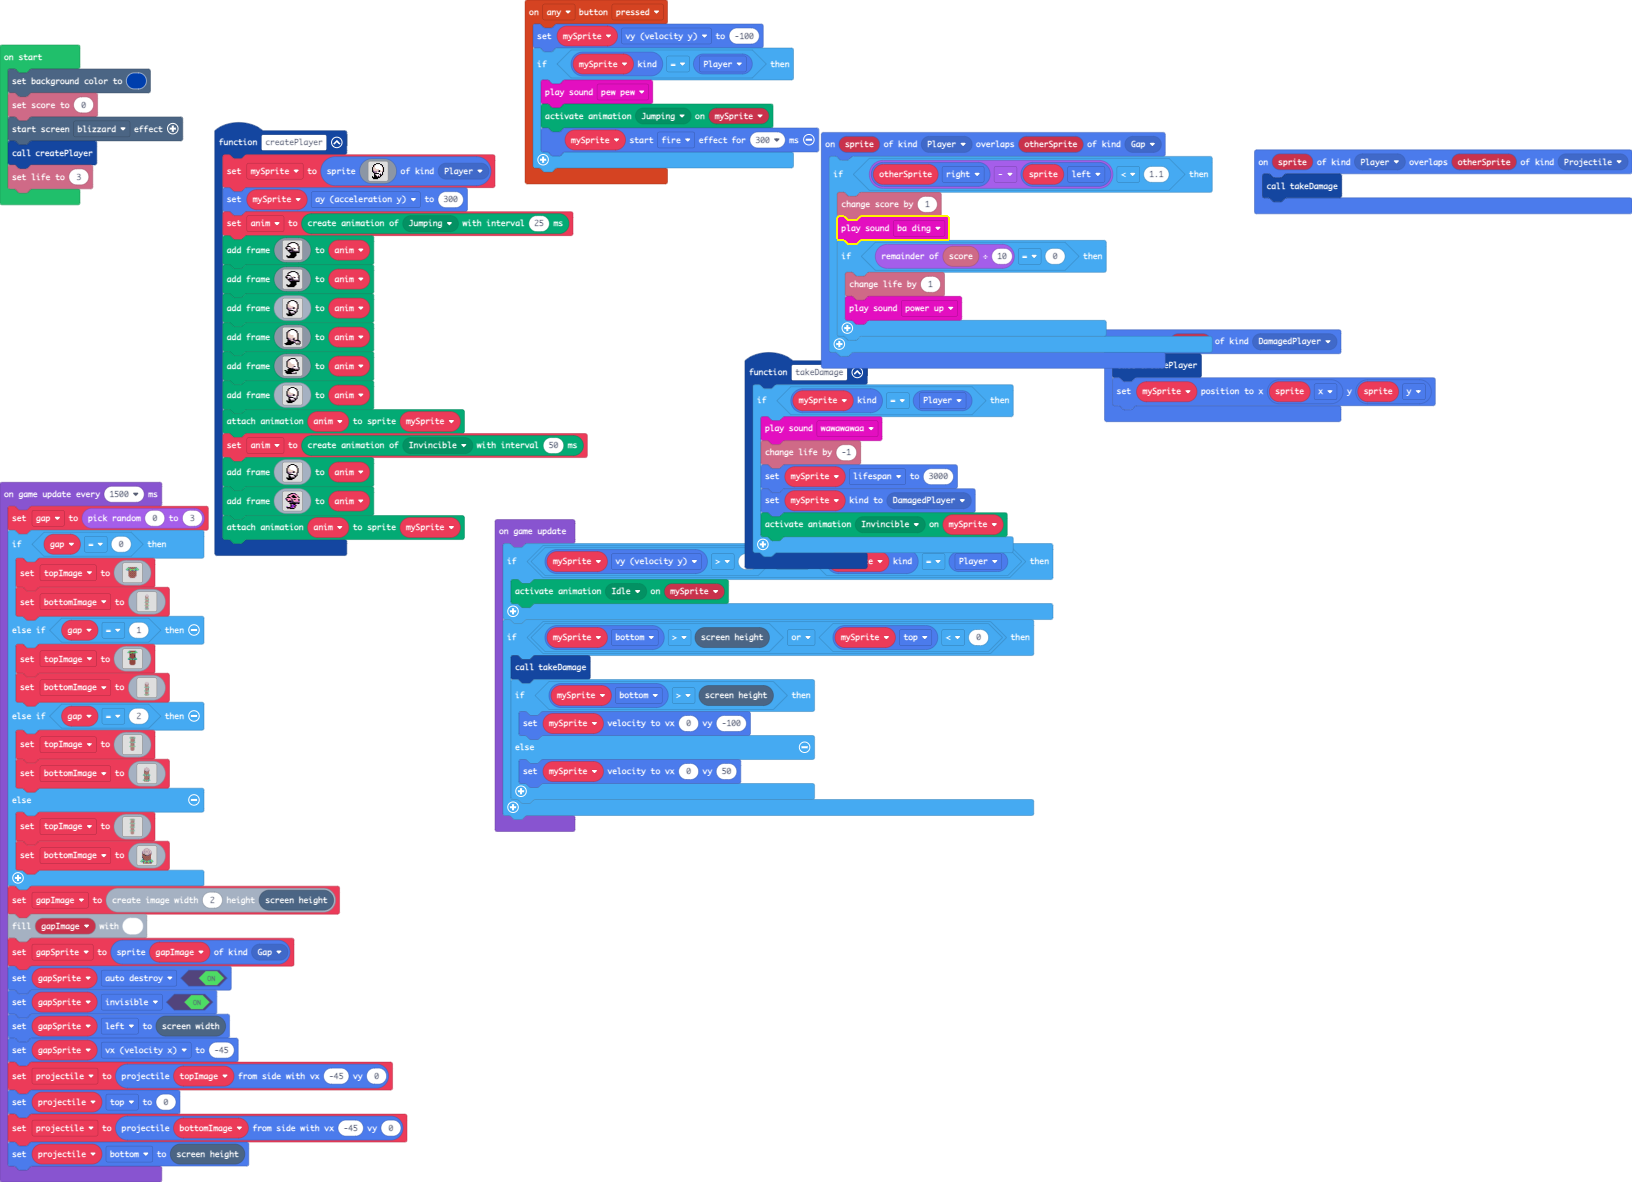
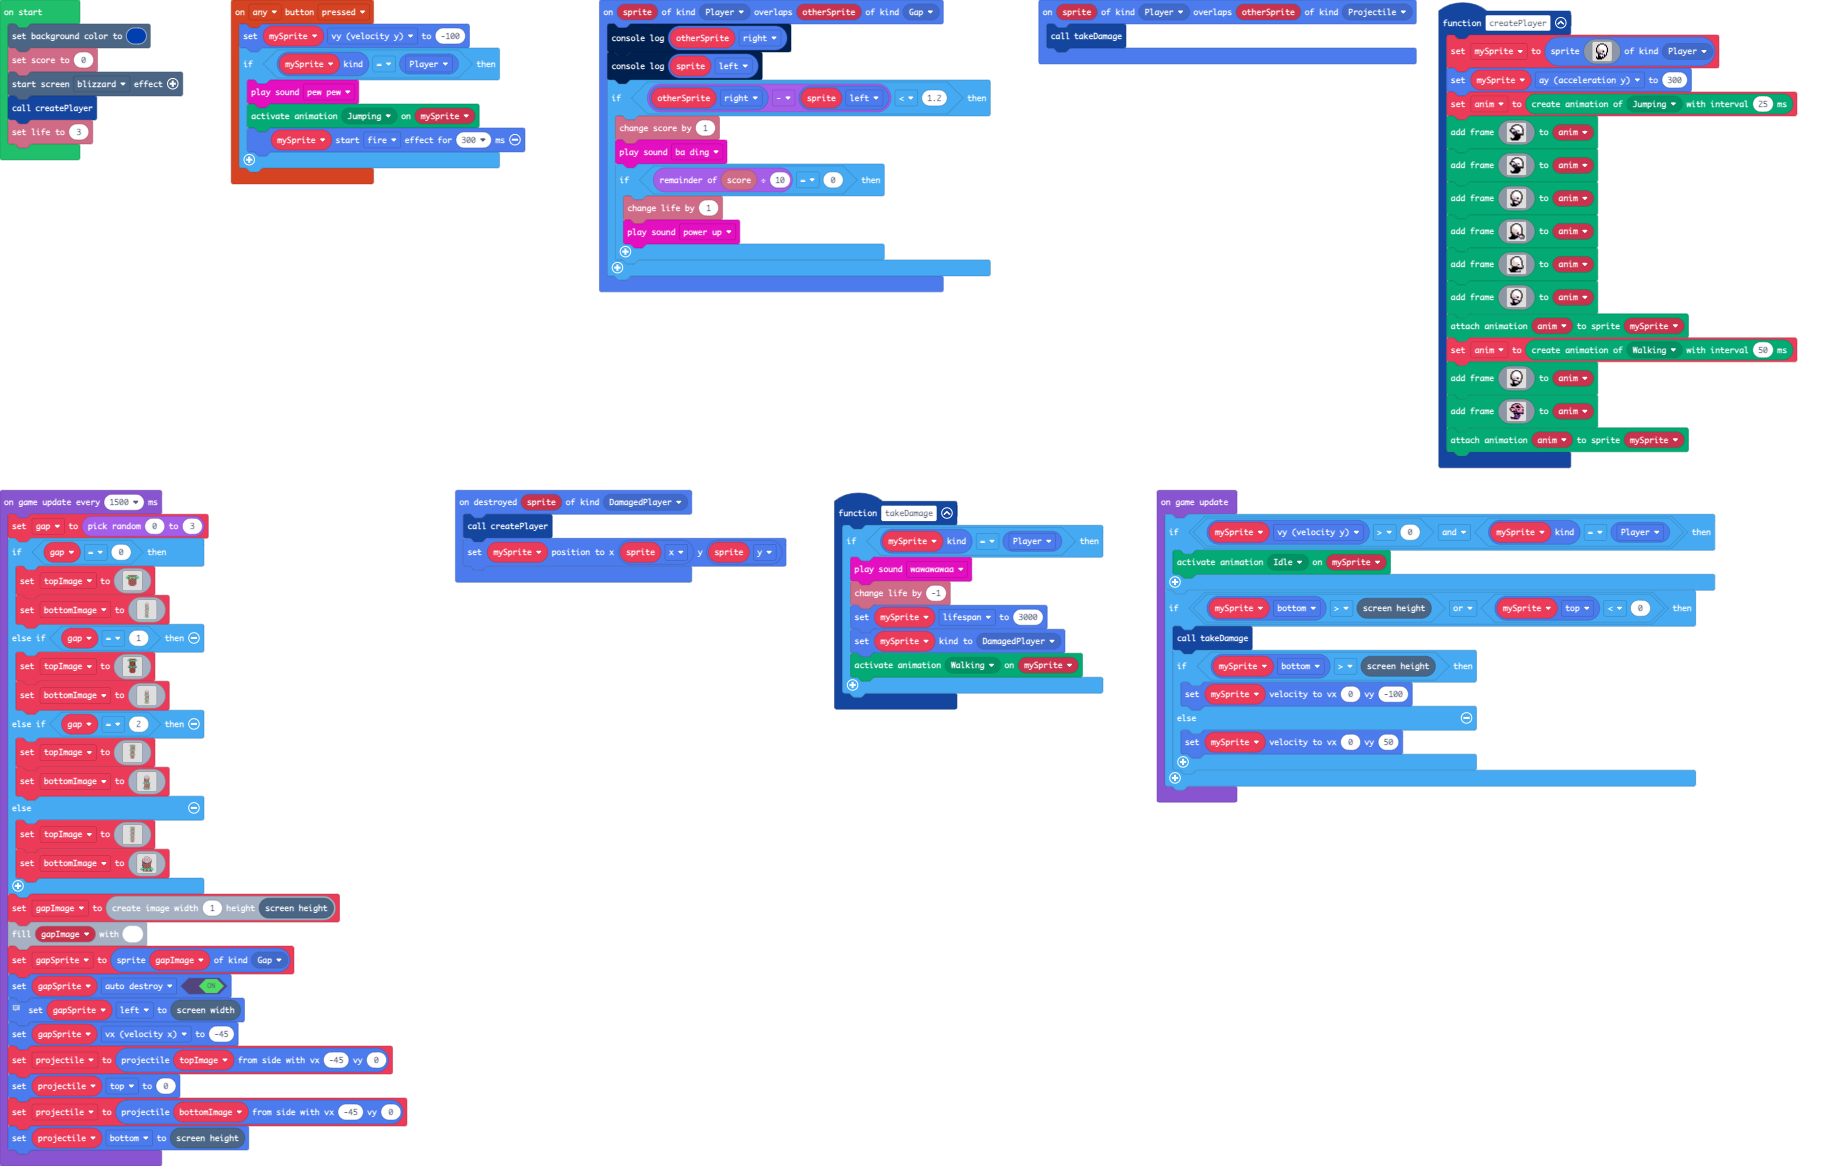
Fix the score by @jakelin

diff --git a/main.ts b/main.ts
@@ -24,19 +24,18 @@ function takeDamage () {
     if (mySprite.kind() == SpriteKind.Player) {
         music.wawawawaa.play()
         info.changeLifeBy(-1)
-        mySprite.lifespan = 3000
+        mySprite.lifespan = 1500
         mySprite.setKind(SpriteKind.DamagedPlayer)
         animation.setAction(mySprite, ActionKind.Invincible)
     }
 }
 sprites.onOverlap(SpriteKind.Player, SpriteKind.Gap, function (sprite, otherSprite) {
-    if (otherSprite.right - sprite.left < 1.1) {
-        info.changeScoreBy(1)
-        music.baDing.play()
-        if (info.score() % 10 == 0) {
-            info.changeLifeBy(1)
-            music.powerUp.play()
-        }
+    otherSprite.destroy()
+    info.changeScoreBy(1)
+    music.baDing.play()
+    if (info.score() % 10 == 0) {
+        info.changeLifeBy(1)
+        music.powerUp.play()
     }
 })
 sprites.onOverlap(SpriteKind.Player, SpriteKind.Projectile, function (sprite, otherSprite) {
@@ -71,7 +70,7 @@ function createPlayer () {
         . . f f f f 1 1 1 1 1 1 1 d f . 
         . f b 1 1 1 c 1 d d 1 1 1 d f . 
         . f f b 1 b 1 f d c f 1 1 b f . 
-        . . f . b f b f b 1 1 1 1 1 f . 
+        . . f b b f b f b 1 1 1 1 1 f . 
         . . . f f f f c f d b 1 b 1 f . 
         . . . . f c c c f c f b f b f . 
         . . . . . f f f f f f f f f f . 
@@ -596,13 +595,13 @@ game.onUpdateInterval(1500, function () {
             ......ee6eeeeee6eef.....
             `
     }
-    gapImage = image.create(2, scene.screenHeight())
+    gapImage = image.create(1, scene.screenHeight())
     gapImage.fill(1)
     gapSprite = sprites.create(gapImage, SpriteKind.Gap)
     gapSprite.setFlag(SpriteFlag.AutoDestroy, true)
     gapSprite.setFlag(SpriteFlag.Invisible, true)
-    gapSprite.left = scene.screenWidth()
-    gapSprite.vx = -45
+    gapSprite.x = scene.screenWidth()
+    gapSprite.vx = -36
     projectile = sprites.createProjectileFromSide(topImage, -45, 0)
     projectile.top = 0
     projectile = sprites.createProjectileFromSide(bottomImage, -45, 0)
